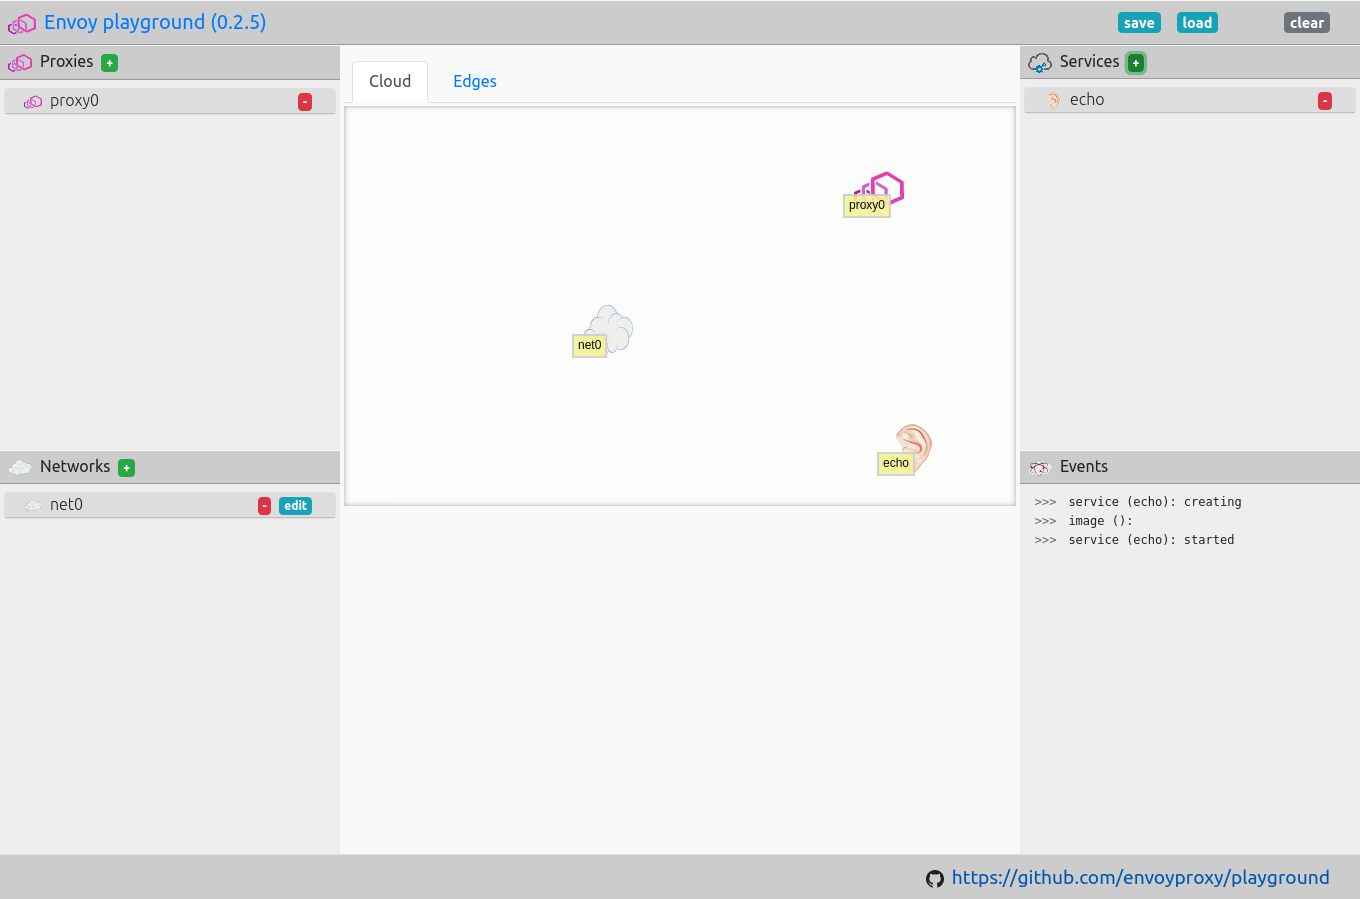
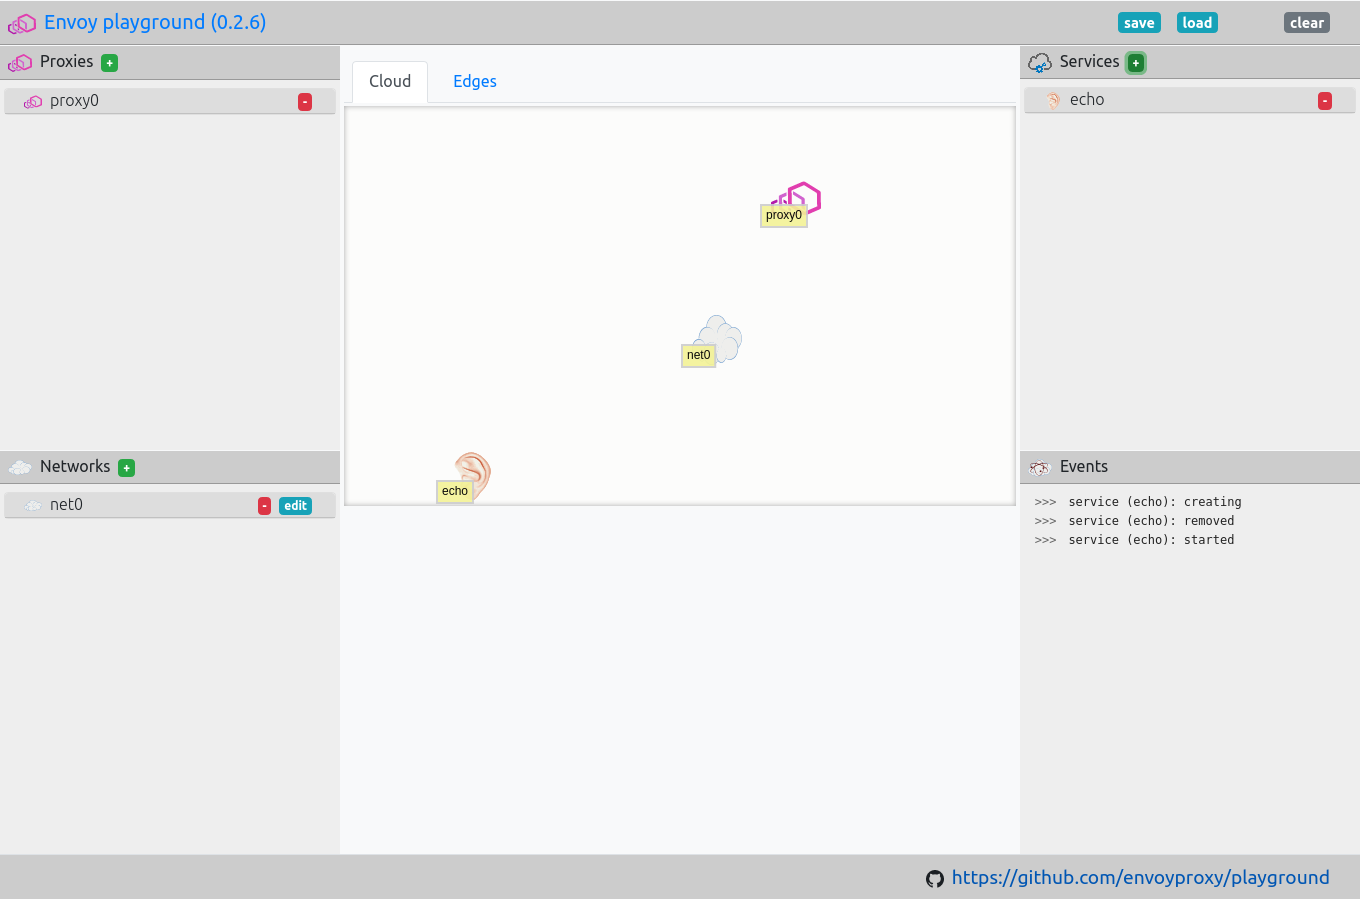
Bump: v0.2.6

diff --git a/integration/tests/journeys/test_network_journeys.py b/integration/tests/journeys/test_network_journeys.py
@@ -11,7 +11,8 @@ def test_journey_network_create(playground):
     # open the proxy modal
     playground.web.find_elements_by_name('Networks')[0].click()
     time.sleep(1)
-    name_input = playground.web.find_elements_by_id('name')[0]
+    name_input = playground.web.find_elements_by_id(
+        'envoy.playground.name')[0]
     assert (
         name_input.get_attribute('placeholder')
         == 'Enter network name')

diff --git a/integration/tests/journeys/test_service_journeys.py b/integration/tests/journeys/test_service_journeys.py
@@ -11,7 +11,8 @@ def test_journey_service_create(playground):
     # open the proxy modal
     playground.web.find_elements_by_name('Services')[0].click()
     time.sleep(1)
-    name_input = playground.web.find_elements_by_id('name')[0]
+    name_input = playground.web.find_elements_by_id(
+        'envoy.playground.name')[0]
     assert (
         name_input.get_attribute('placeholder')
         == 'Enter service name')

diff --git a/integration/tests/journeys/test_proxy_journeys.py b/integration/tests/journeys/test_proxy_journeys.py
@@ -11,7 +11,8 @@ def test_journey_proxy_create(playground):
     # open the proxy modal
     playground.web.find_elements_by_name('Proxies')[0].click()
     time.sleep(1)
-    name_input = playground.web.find_elements_by_id('name')[0]
+    name_input = playground.web.find_elements_by_id(
+        'envoy.playground.name')[0]
     assert (
         name_input.get_attribute('placeholder')
         == 'Enter proxy name')

diff --git a/docs/getting-started/install.rst b/docs/getting-started/install.rst
@@ -41,7 +41,7 @@ You can run the playground directly with Docker.
    $ docker run -d --rm \
 		--privileged \
 		-v /var/run/docker.sock:/var/run/docker.sock \
-		   phlax/envoy-playground:|playground_version|-alpha
+		   phlax/envoy-playground:|playground_version|
 
 .. warning::
 
@@ -102,7 +102,7 @@ then start the playground.
 		--host=unix:///run/user/1000/docker.sock \
 		-p 8000:8080 \
 		-v /run/user/1000/docker.sock:/var/run/docker.sock \
-		   phlax/envoy-playground:|playground_version|-alpha'
+		   phlax/envoy-playground:|playground_version|'
[1 lines of base64/hex data omitted]
 
 You should now be able to access the playground UI on http://localhost:8000

diff --git a/README.md b/README.md
@@ -43,7 +43,7 @@ You can run the playground directly with Docker.
 $ docker run -d --rm \
 	--privileged \
 	-v /var/run/docker.sock:/var/run/docker.sock \
-	phlax/envoy-playground:0.2.5
+	phlax/envoy-playground:0.2.6
 ```
 
 You can stop the playground with.
